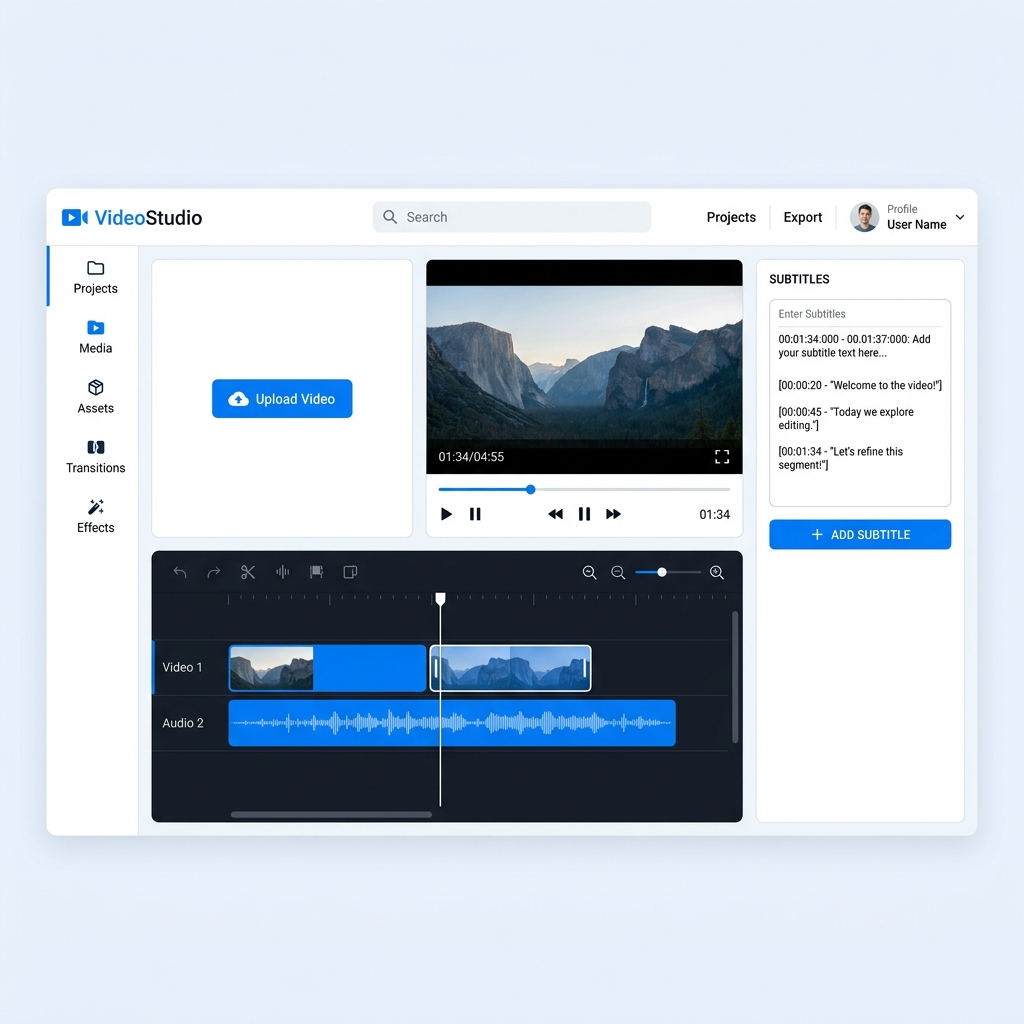
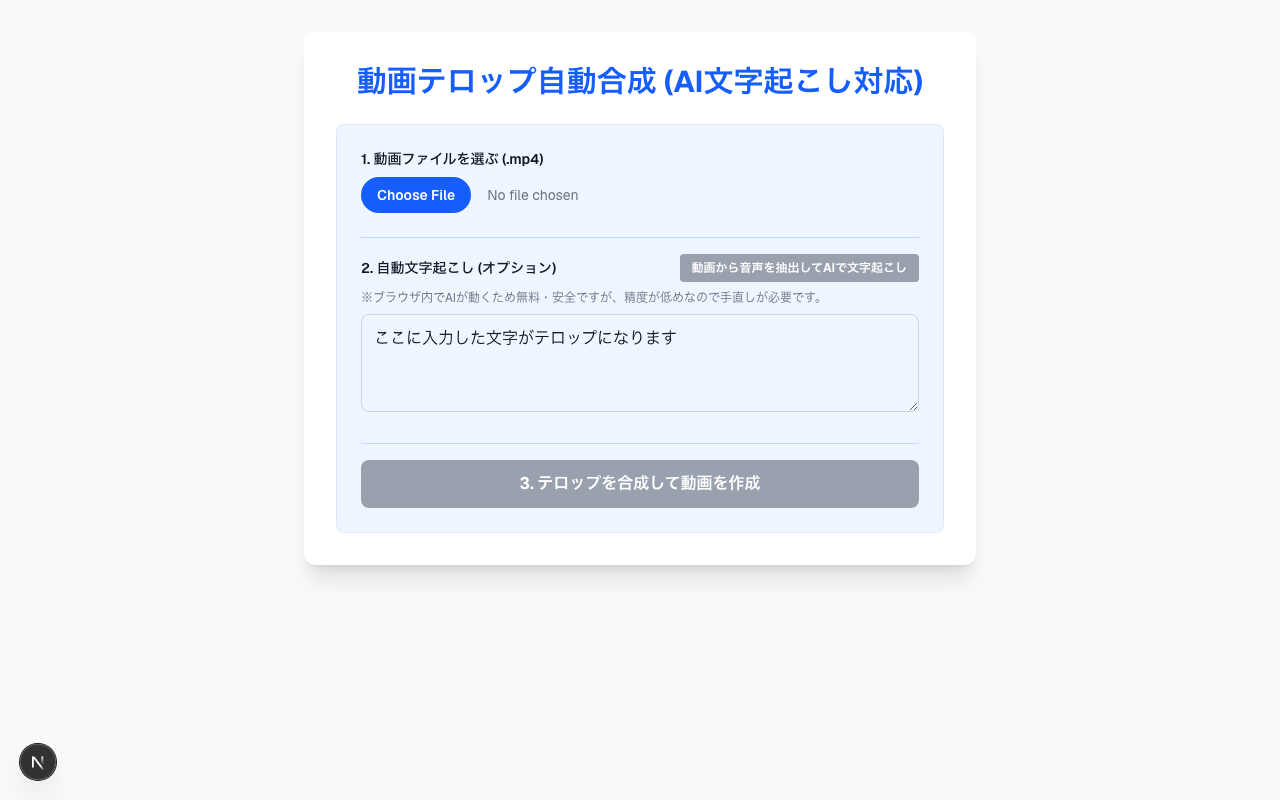
feat: AI生成画像を実際のプロダクトのスクリーンショットに差し替え

diff --git a/articles/browser-video-telop-generator-0630.md b/articles/browser-video-telop-generator-0630.md
@@ -8,7 +8,7 @@ published: false
 
 ## きっかけ
 
-![完成したアプリの画面スクリーンショット](/images/browser-video-telop-generator/app_ui_mockup.png)
+![ブラウザ内で完結するUI](/images/browser-video-telop-generator/app_ui_mockup.png)
 *※ブラウザ内で動画アップロードからテロップ合成まで完結するUI*
 
 業務用の短い動画を、もっと手軽に作れないか——という相談がきっかけでした。
@@ -64,8 +64,8 @@ await ffmpeg.exec([
 
 ここでもサーバーを使わない方法を選びました。`Transformers.js`（Hugging Faceが提供するブラウザ向けの推論ライブラリ）を使い、Whisperの軽量モデル（`Xenova/whisper-tiny`）をブラウザ上で直接動かしています。
 
-![文字起こし処理中のスクリーンショット](/images/browser-video-telop-generator/transcription_progress.png)
-*※モデルのダウンロード進捗や解析状況がリアルタイムに表示される*
+![文字起こし機能のUI](/images/browser-video-telop-generator/transcription_progress.png)
+*※テキストエリアで自由に修正して動画に焼き付けられる*
 
 ```typescript
 const { pipeline } = await import('@huggingface/transformers');
@@ -83,9 +83,6 @@ const output = await transcriber(audioData, {
 精度は正直に言って、高くありません。`whisper-tiny` はWhisperモデルの中で最も小さいものであり、日本語の認識精度は「だいたい合ってるけど、ところどころ怪しい」という水準です。
 
 ただ、今回の用途ではそれで十分でした。文字起こしの結果はいったんテキストエリアに表示され、担当者がその場で手直しできるようにしています。「完璧な自動化」ではなく「8割をAIが埋めて、残り2割を人間が直す」という半自動の設計にしたことで、実用上の問題はほとんどなくなりました。
-
-![完成した動画のプレビューとダウンロードボタンのスクショ](/images/browser-video-telop-generator/video_preview.png)
-*※手直ししたテキストが黒帯の上に白文字で合成される*
 
 ## 技術構成のまとめ
 